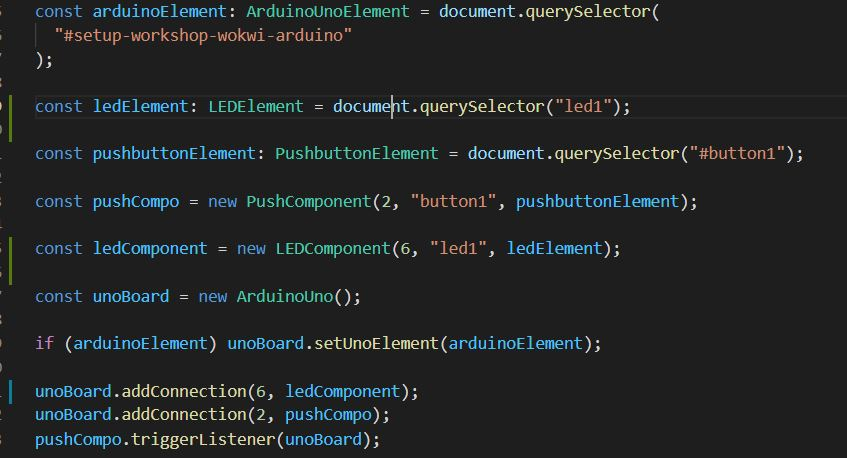
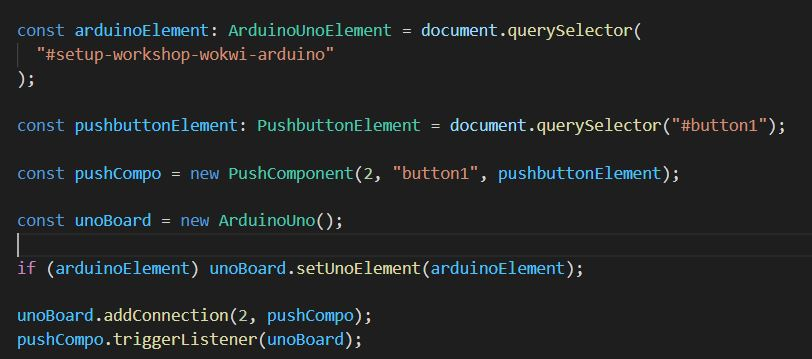
final md push

diff --git a/src/ts/servo.ts b/src/ts/servo.ts
@@ -34,37 +34,18 @@ class PushComponent extends Component {
   }
 }
 
-class LEDComponent extends Component {
-  update(pinState: boolean, cpuCycles: number): void {
-    throw new Error("Method not implemented.");
-  }
-  reset(): void {
-    throw new Error("Method not implemented.");
-  }
-  ledElement: LEDElement;
-  constructor(pin: number, label: string, ledElement: LEDElement) {
-    super(pin, label);
-    this.ledElement = ledElement;
-  }
-}
-
 const arduinoElement: ArduinoUnoElement = document.querySelector(
   "#setup-workshop-wokwi-arduino"
 );
-
-const ledElement: LEDElement = document.querySelector("led1");
 
 const pushbuttonElement: PushbuttonElement = document.querySelector("#button1");
 
 const pushCompo = new PushComponent(2, "button1", pushbuttonElement);
 
-const ledComponent = new LEDComponent(6, "led1", ledElement);
-
 const unoBoard = new ArduinoUno();
 
 if (arduinoElement) unoBoard.setUnoElement(arduinoElement);
 
-unoBoard.addConnection(6, ledComponent);
 unoBoard.addConnection(2, pushCompo);
 pushCompo.triggerListener(unoBoard);
 

diff --git a/README.md b/README.md
@@ -21,7 +21,7 @@ Launch development server.
 
   
 
-### Add a new element (PushButton + LED example)
+### Add a new element (PushButton + built-in LED example)
 
 For adding a new element, you have to first create a new hbs (at /src) and a new ts (at /src/ts) file.
 
@@ -41,13 +41,9 @@ PushComponent class
 ![](https://github.com/zimomar/Arduino-javascript-simulator/blob/main/src/imgs/pushButtonComponent.JPG?raw=true)
 
 
-LEDComponent class
-
-![](https://github.com/zimomar/Arduino-javascript-simulator/blob/main/src/imgs/ledComponent.JPG?raw=true)
-
 Here we added 2 listeners so the PushButton can recognize when its pressed or not (button-press, button-release). If its pressed, a "true" data will be sent to the button's pin, if its released , then a "false" data will be sent.
 
-Dont forget to add an "Element" attribute (here : pushButtonElement and ledElement) because it will be the "front-end" of our component !
+Dont forget to add an "Element" attribute (here its pushButtonElement ) because it will be the "front-end" of our component !
 
 Then we can do this :
 
@@ -61,6 +57,27 @@ If its not clear, check again the PushComponent's constructor.
 
 Then we create a unoBoard instance of the ArduinoUno class, this one will be our uno's instance. We can add our component on it with the `addConnection` method.
 
-We add the pushCompo and the ledComponent here and trigger pushComponent's listener.
+We add the pushCompo to the unoBoard, at pin 2 and trigger pushComponent's listener.
 
-Once all of this done we can just run the localhost server with the commande `npm start` and you should be able to play with a fonctionnal push-button and LED schema.`
+Once all of this done we can just run the localhost server with the commande `npm start` .
+
+The code we used : 
+      //setup global variables here
+      int button = 2; // Choose the button pin. You can choose any other pin.
+      //int LED_BUILTIN = 13; // We have chosen the builtin led pin.
+      // the setup function runs only one time in the startup of your board.
+      void setup() {
+      pinMode(button, INPUT);// initialize digital pin button as an input.
+      pinMode(LED_BUILTIN, OUTPUT);// initialize digital pin led as an output.
+      }
+      // the loop function runs over and over again forever
+      void loop() {
+      int state = digitalRead(button);
+      if (state == HIGH) {
+      digitalWrite(LED_BUILTIN, HIGH);   // turn the LED on (HIGH is the voltage level)
+        } else {
+      digitalWrite(LED_BUILTIN, LOW);    // turn the LED off by making the voltage LOW
+        }
+      }
+
+Put the code on the arduino code container and you should be able to play with a fonctionnal schema of a push-button that triggers the built-in uno's LED.
